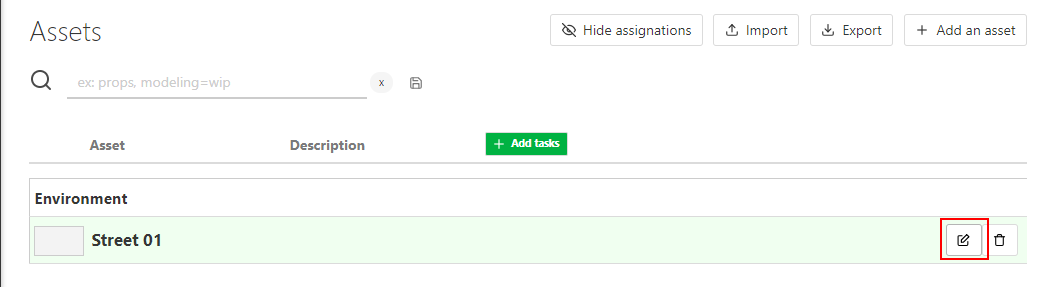
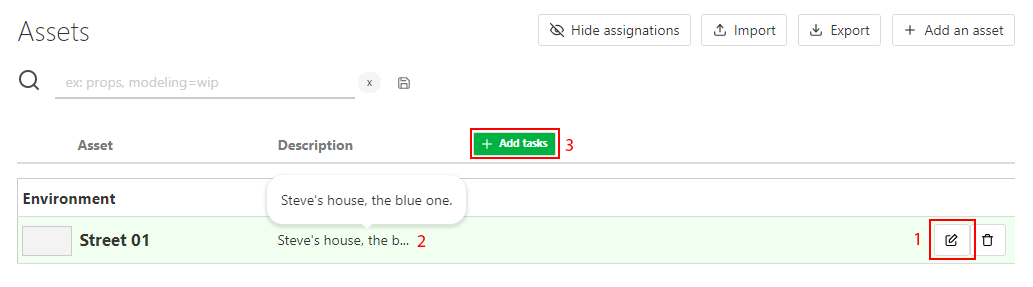
getting started add img

diff --git a/getting-started/README.md b/getting-started/README.md
@@ -45,12 +45,12 @@ You will see the newly created asset appearing on the background everytime your 
 
 For now the assets aren't associate to episode, this association will be down during the **Breakdown** of the storyboard, with sequences and shots.
 
-You can edit assets any time you want by going to the asset page, hovering the asset you want to modify, and then click on the **Edit button** ![Edit button](../img/getting-started/edit_button.png) on the right side of the line.
+You can edit assets any time you want by going to the asset page, hovering the asset you want to modify, and then click on the **Edit button** (1) ![Edit button](../img/getting-started/edit_button.png) on the right side of the line.
 ![Edit an asset](../img/getting-started/asset_edit.png)
 
-On the main asset page, to read the full description, just click on the first words, and a pop up will open with the full description.
+On the main asset page, to read the full description, just click on the first words (2), and a pop up will open with the full description.
 
-Then we can associate tasks to the assets, like **Concep**, **Modeling**, **Texture**, **Setup**, and other if needed.
+Then we can associate tasks to the assets (3), like **Concep**, **Modeling**, **Texture**, **Setup**, and other if needed.
 
 You just have to click on the **Add tasks** on top of the spreadsheet, a new window open, and on the list under **Type** you can choose the task you need to add, validate it by **Confirm** button.
 
